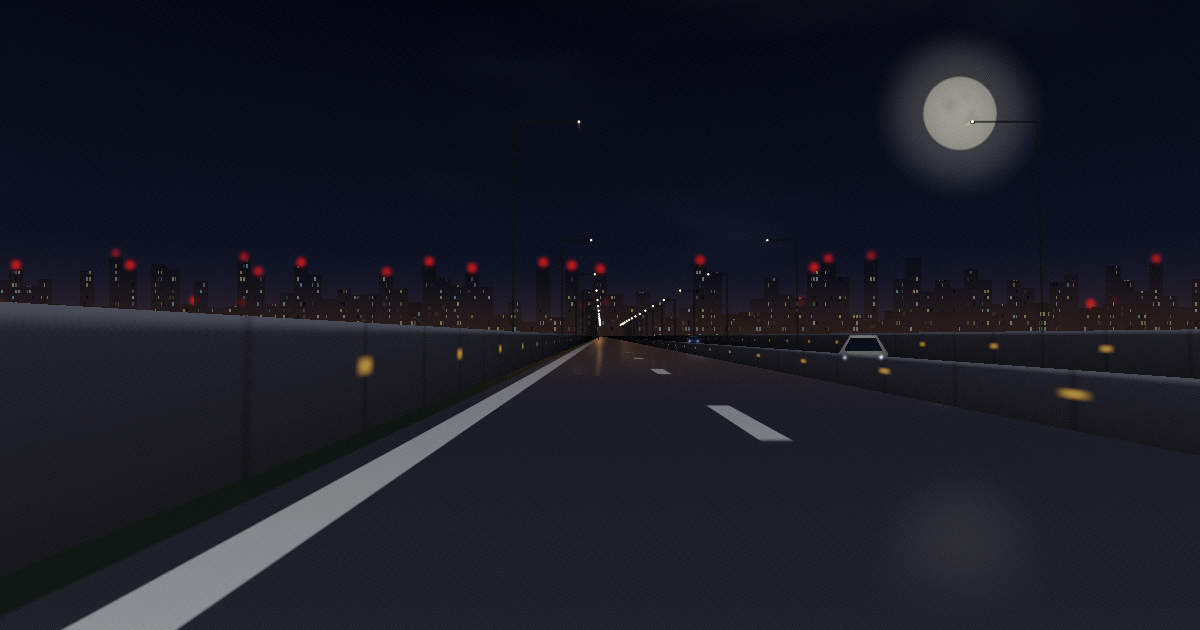
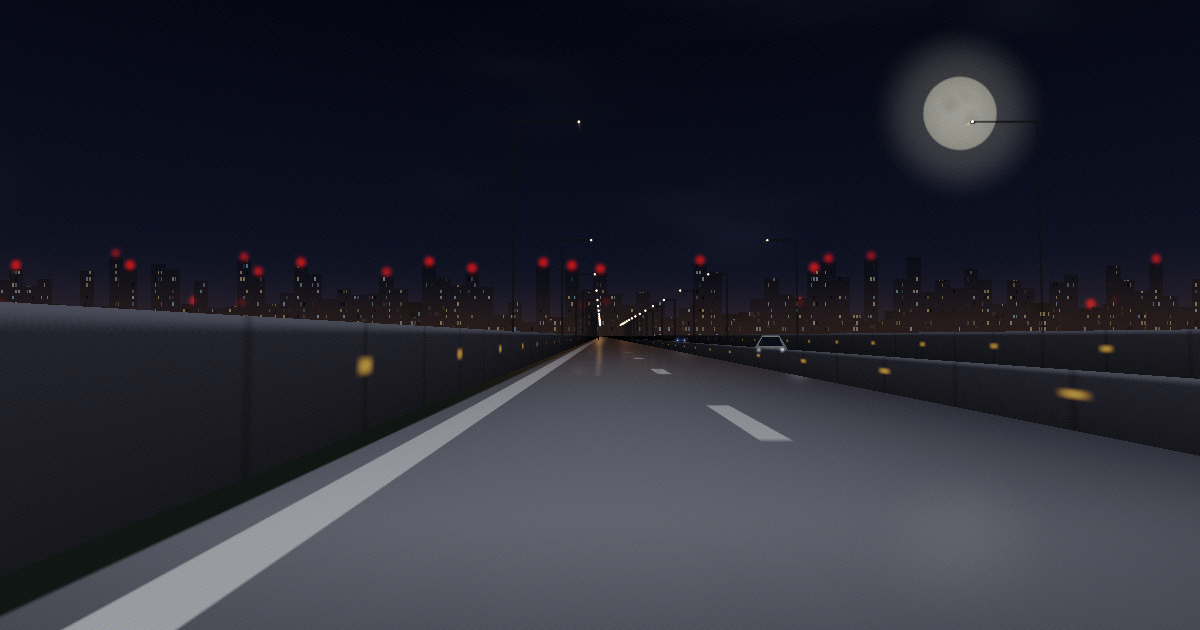
Add ego headlight road wash; fade oncoming cars near the camera
- Fix 'something flies at you': an oncoming car's front-view billboard
  ballooned as it passed (scale ~1/z). Fade each car + its headlights out
  between ~7m and ~2m (smoothstep) and despawn at z<2, so they recede
  naturally instead of swelling across the screen.
- Fix 'the road right ahead isn't lit': add the ego vehicle's own
  headlight wash on the near road — a beam centred on the camera lane
  that ramps in by ~5m and falls off with distance (u_egoBright/u_egoWidth/
  u_egoCol). The foreground now reads as headlit.

https://claude.ai/code/session_014aiygT373NYLjej9iisv7b

diff --git a/js/shaders.js b/js/shaders.js
@@ -108,6 +108,11 @@ void main(){
             road = mix(road, refl, wet);
         }
 
+        // 自車のヘッドライト：目の前〜中距離の路面を照らす（自車レーン中心、遠くで減衰）
+        float egoBeam = smoothstep(0.5, 5.0, Zr) * exp(-Zr * 0.05);
+        float egoLat = exp(-((Xr - u_camX) * (Xr - u_camX)) / (u_egoWidth * u_egoWidth));
+        road += u_egoCol * u_egoBright * egoBeam * egoLat;
+
         // 外の地面：道路より u_roadRaise だけ低い面に交差させる
         float tG = -(u_camHeight + u_roadRaise) / dir.y;
         float Zg = dir.z * tG;
@@ -246,6 +251,8 @@ void main(){
         vec2 car = u_cars[k];
         float cz = car.y;
         if (cz <= 0.5) continue;
+        float nearFade = smoothstep(2.0, 7.0, cz);        // 至近で消す（ビルボードの巨大化＝飛んでくる感を防ぐ）
+        if (nearFade < 0.01) continue;
         float carX = car.x + curveAt(cz);                 // 車中心のワールドX
         vec3 bp = project(vec3(carX - u_camX, -u_camHeight, cz), cp, sp, tanX, tanY); // 足元（路面）
         if (bp.z <= 0.05) continue;
@@ -287,7 +294,7 @@ void main(){
         else if (lp.y < 0.82 && abs(lp.x) < 0.86) body *= 1.05;              // ボンネット面を僅かに起こす
         vec2 hl = vec2(abs(lp.x) - u_carTrack, lp.y - u_carHeadH);           // ヘッドライトのレンズ
         body = mix(body, vec3(1.0, 0.97, 0.88), smoothstep(0.14, 0.0, length(hl)) * 0.9);
-        col = mix(col, body, m * occ);
+        col = mix(col, body, m * occ * nearFade);
     }
 
     // ===== 道路照明灯（ワールド座標を順投影）=====
@@ -378,6 +385,8 @@ void main(){
         vec2 car = u_cars[k];
         float cz = car.y;
         if (cz <= 0.5) continue;
+        float nearFade = smoothstep(2.0, 7.0, cz);        // 至近フェード（ボディと同じ）
+        if (nearFade < 0.01) continue;
         float cxBase = car.x + curveAt(cz) - u_camX;
         for (int hl = 0; hl < 2; hl++) {
             float off = (hl == 0) ? -u_carTrack : u_carTrack;
@@ -389,7 +398,7 @@ void main(){
             float r = u_carHeadSize * ps + 0.0025;   // 近いほど大きく
             float d = distance(Pp, Hp);
             float fade = exp(-cz * u_fogDensity);     // ヘッドライトは点光源：減衰は大気フェードのみ
-            light += u_carHeadCol * exp(-(d * d) / (r * r)) * u_carHeadBright * fade;
+            light += u_carHeadCol * exp(-(d * d) / (r * r)) * u_carHeadBright * fade * nearFade;
         }
         // ヘッドライトが照らす路面の淡いプール（車の手前側の車道に落ちる）
         if (onRoad) {
@@ -399,7 +408,7 @@ void main(){
                 vec2 Prc = vec2(pr.x * aspect, pr.y);
                 float prR = u_carHeadSize * 7.0 * pps + 0.012;
                 float dd = distance(vec2(uv.x * aspect, uv.y), Prc);
-                light += u_carHeadCol * exp(-(dd * dd) / (prR * prR)) * u_carHeadBright * 0.22 * exp(-cz * u_fogDensity);
+                light += u_carHeadCol * exp(-(dd * dd) / (prR * prR)) * u_carHeadBright * 0.22 * exp(-cz * u_fogDensity) * nearFade;
             }
         }
     }

diff --git a/js/config.js b/js/config.js
@@ -83,6 +83,8 @@ NH.PARAMS = [
     // --- 大気 / 見た目（旧ハードコード値を config 化）---
     { key: "fogDensity",    def: 0.012, uniform: "u_fogDensity",    type: "float", ui: { min: 0, max: 0.05, step: 0.001 } },
     { key: "wetness",       def: 0.34,  uniform: "u_wetness",       type: "float", ui: { min: 0, max: 1, step: 0.02 } },  // 路面の濡れ反射の強さ
+    { key: "egoBright",     def: 0.5,   uniform: "u_egoBright",     type: "float", ui: { min: 0, max: 2, step: 0.05 } },  // 自車ヘッドライトの路面照明
+    { key: "egoWidth",      def: 6.0,   uniform: "u_egoWidth",      type: "float", ui: { min: 2, max: 14, step: 0.5 } },  // その横方向の広がり(m)
     { key: "hazeSharp",     def: 220.0, uniform: "u_hazeSharp",     type: "float", ui: { min: 20, max: 600, step: 10 } },
     { key: "hazeIntensity", def: 0.45,  uniform: "u_hazeIntensity", type: "float", ui: { min: 0, max: 1.5, step: 0.05 } },
     { key: "skyCurve",      def: 0.60,  uniform: "u_skyCurve",      type: "float", ui: { min: 0.2, max: 1.5, step: 0.05 } },
@@ -135,7 +137,8 @@ NH.PARAMS = [
     { key: "cityCol",    def: [0.02, 0.025, 0.05],  uniform: "u_cityCol",    type: "color", ui: { color: true } },
     { key: "windowCol",  def: [1.00, 0.85, 0.50],   uniform: "u_windowCol",  type: "color", ui: { color: true } },
     { key: "beaconCol",  def: [1.00, 0.06, 0.03],   uniform: "u_beaconCol",  type: "color", ui: { color: true } },
-    { key: "carHeadCol", def: [0.85, 0.92, 1.00],   uniform: "u_carHeadCol", type: "color", ui: { color: true } }
+    { key: "carHeadCol", def: [0.85, 0.92, 1.00],   uniform: "u_carHeadCol", type: "color", ui: { color: true } },
+    { key: "egoCol",     def: [0.85, 0.88, 0.98],   uniform: "u_egoCol",     type: "color", ui: { color: true } }
 ];
 
 // 調整済みの値を残すならここに（"Copy config JSON" の出力を貼る）

diff --git a/scripts/make-og.js b/scripts/make-og.js
@@ -62,7 +62,7 @@ gl.uniform1f(loc("u_cityPhase"), 0.4);
 gl.uniform1f(loc("u_cityScroll"), 1.5);
 gl.uniform1f(loc("u_cloudScroll"), 1.2);
 gl.uniform1f(loc("u_time"), 2.0);
-gl.uniform2fv(loc("u_cars[0]"), new Float32Array([2.5, 22, 7.5, 95, 0, -1, 0, -1])); // 対向車2台（手前/奥）
+gl.uniform2fv(loc("u_cars[0]"), new Float32Array([2.5, 34, 7.5, 110, 0, -1, 0, -1])); // 対向車2台（中/奥）
 gl.uniform3fv(loc("u_carCol[0]"), new Float32Array([0.90, 0.91, 0.93, 0.10, 0.20, 0.52, 0, 0, 0, 0, 0, 0])); // 白/青
 NH.PARAMS.forEach(function (p) {
     if (!p.uniform) return;

diff --git a/js/scene.js b/js/scene.js
@@ -164,7 +164,7 @@ NH.createScene = function (canvas, config) {
     function updateCars(dt) {
         for (var i = cars.length - 1; i >= 0; i--) {
             cars[i].z -= cars[i].speed * dt;       // 接近（Zが減る）
-            if (cars[i].z < -8) cars.splice(i, 1); // 通過したら消す
+            if (cars[i].z < 2) cars.splice(i, 1);  // 至近でフェード済み→消す（巨大化前に除去）
         }
         carTimer -= dt;
         if (carTimer <= 0) {
